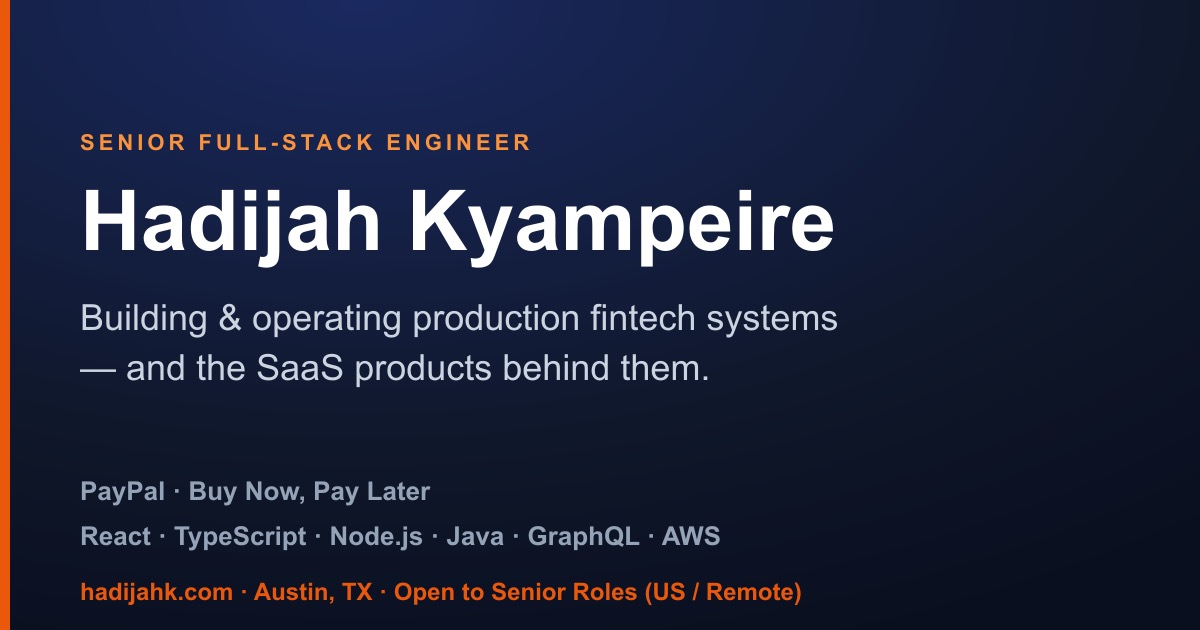
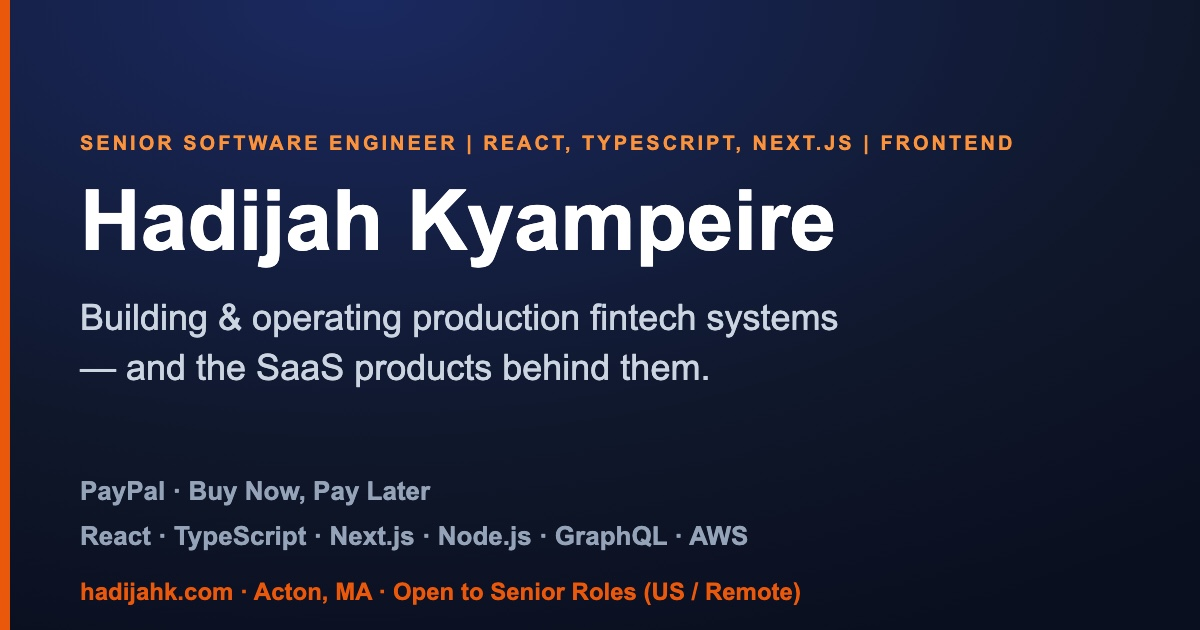
Match site to resume: headline, Skye/OpenMRS titles and dates, master's dates, OG image

diff --git a/index.html b/index.html
@@ -7,9 +7,9 @@
     <meta name="viewport" content="width=device-width, initial-scale=1.0" />
 
     <!-- Primary SEO -->
-    <title>Hadijah Kyampeire — Senior Full-Stack Engineer (React, TS, Node) · ex-PayPal BNPL</title>
-    <meta name="description" content="Hadijah Kyampeire — Senior full-stack engineer (8+ yrs) across FinTech, HealthTech, TravelTech, and EdTech. Most recently consumer fintech at PayPal Buy Now Pay Later; previously Sigma360 (risk intelligence), OpenMRS (healthcare). Open to senior roles — work-authorized in the US (on-site, hybrid, or remote); open to Canada with sponsorship." />
-    <meta name="keywords" content="Hadijah Kyampeire, Hadijah Kyampeire portfolio, senior software engineer, full-stack engineer, react developer, typescript, node.js, paypal engineer, fintech engineer, openmrs contributor, US software engineer roles, Canada software engineer roles, remote engineer" />
+    <title>Hadijah Kyampeire — Senior Software Engineer | React, TypeScript, Next.js | Frontend</title>
+    <meta name="description" content="Hadijah Kyampeire — Senior software engineer (8+ yrs; React, TypeScript, Next.js) across FinTech, HealthTech, TravelTech, and EdTech. Most recently consumer fintech at PayPal Buy Now Pay Later; previously Sigma360 (risk intelligence), OpenMRS (healthcare). Open to senior roles — work-authorized in the US (on-site, hybrid, or remote); open to Canada with sponsorship." />
+    <meta name="keywords" content="Hadijah Kyampeire, Hadijah Kyampeire portfolio, senior software engineer, frontend engineer, react developer, typescript, next.js, node.js, paypal engineer, fintech engineer, openmrs contributor, US software engineer roles, Canada software engineer roles, remote engineer" />
     <meta name="author" content="Hadijah Kyampeire" />
     <meta name="robots" content="index, follow, max-image-preview:large" />
     <link rel="canonical" href="https://www.hadijahk.com/" />
@@ -17,8 +17,8 @@
     <!-- Open Graph / Facebook -->
     <meta property="og:type" content="profile" />
     <meta property="og:url" content="https://www.hadijahk.com/" />
-    <meta property="og:title" content="Hadijah Kyampeire — Senior Full-Stack Engineer (React, TS, Node) · ex-PayPal BNPL" />
-    <meta property="og:description" content="Senior full-stack engineer (8+ yrs) across FinTech, HealthTech, TravelTech, EdTech. Most recently PayPal BNPL; previously Sigma360, OpenMRS. US work-authorized; open to Canada with sponsorship." />
+    <meta property="og:title" content="Hadijah Kyampeire — Senior Software Engineer | React, TypeScript, Next.js | Frontend" />
+    <meta property="og:description" content="Senior software engineer (8+ yrs; React, TypeScript, Next.js) across FinTech, HealthTech, TravelTech, EdTech. Most recently PayPal BNPL; previously Sigma360, OpenMRS. US work-authorized; open to Canada with sponsorship." />
     <meta property="og:image" content="https://www.hadijahk.com/og-image.jpg" />
     <meta property="og:site_name" content="Hadijah Kyampeire" />
     <meta property="profile:first_name" content="Hadijah" />
@@ -27,8 +27,8 @@
     <!-- Twitter -->
     <meta property="twitter:card" content="summary_large_image" />
     <meta property="twitter:url" content="https://www.hadijahk.com/" />
-    <meta property="twitter:title" content="Hadijah Kyampeire — Senior Full-Stack Engineer (React, TS, Node) · ex-PayPal BNPL" />
-    <meta property="twitter:description" content="Senior full-stack engineer (8+ yrs) across FinTech, HealthTech, TravelTech, EdTech. Most recently PayPal BNPL; previously Sigma360, OpenMRS. US work-authorized; open to Canada with sponsorship." />
+    <meta property="twitter:title" content="Hadijah Kyampeire — Senior Software Engineer | React, TypeScript, Next.js | Frontend" />
+    <meta property="twitter:description" content="Senior software engineer (8+ yrs; React, TypeScript, Next.js) across FinTech, HealthTech, TravelTech, EdTech. Most recently PayPal BNPL; previously Sigma360, OpenMRS. US work-authorized; open to Canada with sponsorship." />
     <meta property="twitter:image" content="https://www.hadijahk.com/og-image.jpg" />
     <meta property="twitter:creator" content="@KyampeireH" />
     <meta property="twitter:site" content="@KyampeireH" />
@@ -43,7 +43,7 @@
       {
         "@context": "https://schema.org",
         "@type": "WebSite",
-        "name": "Hadijah Kyampeire — Senior Full-Stack Engineer",
+        "name": "Hadijah Kyampeire — Senior Software Engineer",
         "alternateName": ["Hadijah Kyampeire", "Hadijah", "Kyampeire"],
         "url": "https://www.hadijahk.com/",
         "inLanguage": "en-US",
@@ -62,14 +62,14 @@
         "name": "Hadijah Kyampeire",
         "givenName": "Hadijah",
         "familyName": "Kyampeire",
-        "jobTitle": "Senior Full-Stack Software Engineer",
-        "description": "Senior full-stack engineer (8+ years) across FinTech, HealthTech, TravelTech, and EdTech. Most recently consumer fintech at PayPal Buy Now Pay Later; previously Sigma360 (risk intelligence), OpenMRS (healthcare). Work-authorized in the US (on-site, hybrid, or remote); open to Canada with sponsorship.",
+        "jobTitle": "Senior Software Engineer",
+        "description": "Senior software engineer (8+ years; React, TypeScript, Next.js) across FinTech, HealthTech, TravelTech, and EdTech. Most recently consumer fintech at PayPal Buy Now Pay Later; previously Sigma360 (risk intelligence), OpenMRS (healthcare). Work-authorized in the US (on-site, hybrid, or remote); open to Canada with sponsorship.",
         "url": "https://www.hadijahk.com/",
         "image": "https://www.hadijahk.com/og-image.jpg",
         "email": "mailto:hadijahkyampeire@gmail.com",
         "hasOccupation": {
           "@type": "Occupation",
-          "name": "Full Stack Software Engineer",
+          "name": "Senior Software Engineer",
           "occupationLocation": {
             "@type": "City",
             "name": "Acton, MA"
@@ -77,7 +77,7 @@
         },
         "seeks": {
           "@type": "Demand",
-          "name": "Senior full-stack software engineering roles"
+          "name": "Senior software engineering roles"
         },
         "affiliation": [
           { "@type": "Organization", "name": "PayPal", "url": "https://www.paypal.com/" },
@@ -127,21 +127,21 @@
     <!-- SEO fallback content (rendered when JS is disabled or crawler hasn't executed JS yet) -->
     <noscript>
       <header>
-        <h1>Hadijah Kyampeire — Senior Full-Stack Engineer</h1>
+        <h1>Hadijah Kyampeire — Senior Software Engineer | React, TypeScript, Next.js | Frontend</h1>
         <p>
-          Hadijah Kyampeire is a Senior Full-Stack Software Engineer with 8+ years of experience
+          Hadijah Kyampeire is a Senior Software Engineer with 8+ years of experience
           designing and building production-scale web applications for regulated industries.
           Most recently she built on PayPal's Buy Now, Pay Later (BNPL) platform in Austin, Texas,
           working across the United States, United Kingdom, European Union, Australia, and Canada
           markets using React, TypeScript, Node.js, and GraphQL. She is currently open to senior
-          full-stack engineering roles.
+          software engineering roles.
         </p>
         <h2>Experience</h2>
         <ul>
           <li><strong>PayPal · Buy Now, Pay Later</strong> — Full Stack Software Engineer (Contract via Insight Global), Austin, TX, October 2025 – July 2026</li>
-          <li><strong>Skye</strong> — Senior Software Engineer (Contract), New York, NY, June 2024 – October 2024</li>
+          <li><strong>Skye</strong> — Senior Software Developer, New York, NY, May 2024 – October 2024</li>
           <li><strong>Sigma360</strong> (via Andela) — Senior Software Engineer (promoted from Software Engineer), New York, NY, October 2018 – April 2024</li>
-          <li><strong>OpenMRS (Open Source)</strong> — Frontend Software Engineer / Development Fellow / /dev/3 Contributor, November 2020 – October 2024</li>
+          <li><strong>OpenMRS (Open Source)</strong> — Senior Software Engineer &amp; Open Source Contributor / Development Fellow / /dev/3 Contributor, November 2020 – August 2023</li>
           <li><strong>Andela Uganda</strong> — Software Engineer, Kampala, Uganda, December 2017 – September 2018</li>
         </ul>
         <h2>Community &amp; Open Source</h2>
@@ -153,7 +153,7 @@
         </ul>
         <h2>Education</h2>
         <ul>
-          <li>Master of Science in Computer Science — Maharishi International University (completing September 2026)</li>
+          <li>Master of Science in Computer Science — Maharishi International University (November 2024 – December 2026)</li>
           <li>Bachelor of Computer Engineering, First Class Honors — Busitema University, Uganda</li>
         </ul>
         <h2>Links</h2>

diff --git a/src/services/aiService.js b/src/services/aiService.js
@@ -18,9 +18,9 @@ const PORTFOLIO_CONTEXT = `
 You are an AI assistant for Hadijah Kyampeire's portfolio.
 
 - Name: Hadijah Kyampeire
-- Current Status: Open to senior full-stack engineering roles. Work-authorized in the US (on-site, hybrid, or remote); open to Canada with sponsorship. Also finishing a Master of Science in Computer Science at Maharishi International University (completing September 2026).
+- Current Status: Open to senior software engineering roles (React, TypeScript, Next.js; frontend-focused). Work-authorized in the US (on-site, hybrid, or remote); open to Canada with sponsorship. Also finishing a Master of Science in Computer Science at Maharishi International University (November 2024 - December 2026).
 - Most Recent Role: Full Stack Software Engineer, Buy Now Pay Later at PayPal, Austin TX (October 2025 - July 2026)
-- Previous Roles: Senior Software Engineer at Skye, Frontend Software Engineer / Development Fellow at OpenMRS (incl. the METS Program engagement), Senior Software Engineer at Sigma360 via Andela, Software Engineer at Andela Uganda
+- Previous Roles: Senior Software Developer at Skye (May 2024 - October 2024), Senior Software Engineer & Open Source Contributor / Development Fellow at OpenMRS (November 2020 - August 2023) (incl. the METS Program engagement), Senior Software Engineer at Sigma360 via Andela, Software Engineer at Andela Uganda
 - Also: Lead engineer on two live travel-booking platforms built for a client, Zifah Voyages and MixedTrips
 - Her own product: 'Litter Stars', a kids' learning app for ages 3-12 (React Native/Expo, TypeScript, serverless AWS) that she founded and builds solo — parent accounts with multiple child profiles, age-banded curriculum with subscription tiers, per-lesson progress, illustrated story reader with comprehension questions
 - Experience: 8+ years across FinTech, HealthTech, TravelTech, and EdTech
@@ -112,7 +112,7 @@ const generateFallbackResponse = (userMessage) => {
     lowerMessage.includes('hire') ||
     lowerMessage.includes('opportunity')
   ) {
-    return `She's open to senior full-stack engineering roles right now. Her most recent role was at PayPal on Buy Now, Pay Later, which wrapped up in July 2026. She's work-authorized in the US (on-site, hybrid, or remote all welcome) and open to Canada for teams that can sponsor relocation. She's also finishing a Master of Science in Computer Science at Maharishi International University (completing September 2026). Reach out at hadijahkyampeire@gmail.com to discuss opportunities!`;
+    return `She's open to senior software engineering roles right now, with a frontend focus on React, TypeScript, and Next.js. Her most recent role was at PayPal on Buy Now, Pay Later, which wrapped up in July 2026. She's work-authorized in the US (on-site, hybrid, or remote all welcome) and open to Canada for teams that can sponsor relocation. She's also finishing a Master of Science in Computer Science at Maharishi International University (finishing December 2026). Reach out at hadijahkyampeire@gmail.com to discuss opportunities!`;
   }
   
   // Skills and technologies
@@ -137,7 +137,7 @@ const generateFallbackResponse = (userMessage) => {
     lowerMessage.includes('background') ||
     lowerMessage.includes('role')
   ) {
-    return `She has 8+ years of experience across FinTech, HealthTech, TravelTech, and EdTech. Most recently she was a Full Stack Software Engineer at PayPal in Austin (Oct 2025 - Jul 2026), building onboarding and credit-decisioning for Buy Now, Pay Later across multiple markets. Before that: Senior Software Engineer at Skye, ~4 years contributing to OpenMRS (including Uganda's METS Program), and 5+ years at Sigma360 via Andela building financial-crime and risk-intelligence software used by Stripe and other institutions. She's also the lead engineer on two live travel-booking platforms built for a client, Zifah Voyages and MixedTrips, and the founder of her own kids' learning app.`;
+    return `She has 8+ years of experience across FinTech, HealthTech, TravelTech, and EdTech. Most recently she was a Full Stack Software Engineer at PayPal in Austin (Oct 2025 - Jul 2026), building onboarding and credit-decisioning for Buy Now, Pay Later across multiple markets. Before that: Senior Software Developer at Skye, nearly three years contributing to OpenMRS (including Uganda's METS Program), and 5+ years at Sigma360 via Andela building financial-crime and risk-intelligence software used by Stripe and other institutions. She's also the lead engineer on two live travel-booking platforms built for a client, Zifah Voyages and MixedTrips, and the founder of her own kids' learning app.`;
   }
   
   // Projects
@@ -170,7 +170,7 @@ const generateFallbackResponse = (userMessage) => {
     lowerMessage.includes('university') ||
     lowerMessage.includes('study')
   ) {
-    return `She's pursuing a Master of Science in Computer Science at Maharishi International University (completing September 2026). She also holds a Bachelor of Computer Engineering with First Class Honors from Busitema University in Uganda (2013-2017). Her studies focused on algorithms, web application architecture, enterprise architecture, and cloud computing.`;
+    return `She's pursuing a Master of Science in Computer Science at Maharishi International University (November 2024 - December 2026). She also holds a Bachelor of Computer Engineering with First Class Honors from Busitema University in Uganda (2013-2017). Her studies focused on algorithms, web application architecture, enterprise architecture, and cloud computing.`;
   }
   
   // Location and remote work
@@ -222,7 +222,7 @@ const generateFallbackResponse = (userMessage) => {
     lowerMessage.includes('medical') ||
     lowerMessage.includes('openmrs')
   ) {
-    return `She contributed to OpenMRS for around four years - the open-source EMR platform behind national health systems in 50+ countries, including UgandaEMR (1,700+ facilities) and PEPFAR HIV programs. She architected a JSON-schema-driven UI workflow framework on the OpenMRS 3 micro-frontends platform that cut clinical-module code duplication by ~90%, and built a drag-and-drop clinical form builder that cut form creation time by ~40%. She's recognized as a /dev/3 senior contributor and was named a Development Fellow. The work continued through a 2024 engagement with Uganda's METS Program at Makerere University School of Public Health.`;
+    return `She contributed to OpenMRS for nearly three years (November 2020 - August 2023) - the open-source EMR platform behind national health systems in 50+ countries, including UgandaEMR (1,700+ facilities) and PEPFAR HIV programs. She architected a JSON-schema-driven UI workflow framework on the OpenMRS 3 micro-frontends platform that cut clinical-module code duplication by ~90%, and built a drag-and-drop clinical form builder that cut form creation time by ~40%. She's recognized as a /dev/3 senior contributor and was named a Development Fellow. The work included Uganda's METS Program at Makerere University School of Public Health, where she enhanced UgandaEMR stock management.`;
   }
   
   // Sigma360 specific
@@ -242,7 +242,7 @@ const generateFallbackResponse = (userMessage) => {
     lowerMessage.includes('compensation') ||
     lowerMessage.includes('cost')
   ) {
-    return `She's open to discussing compensation based on the role and scope. With 8+ years of full-stack experience across regulated fintech, healthcare, and risk platforms, she's targeting senior-level compensation. Reach out at hadijahkyampeire@gmail.com to talk specifics.`;
+    return `She's open to discussing compensation based on the role and scope. With 8+ years of experience across regulated fintech, healthcare, and risk platforms, she's targeting senior-level compensation. Reach out at hadijahkyampeire@gmail.com to talk specifics.`;
   }
   
   // Career goals and aspirations
@@ -253,7 +253,7 @@ const generateFallbackResponse = (userMessage) => {
     lowerMessage.includes('plan') ||
     lowerMessage.includes('next')
   ) {
-    return `She's looking for senior full-stack roles where she can own features end to end, ideally in fintech, healthcare, or another domain where correctness matters. She wants to keep mentoring engineers, keep contributing to open source, and keep building with AI-assisted tooling as part of the workflow rather than as a novelty.`;
+    return `She's looking for senior software engineering roles where she can own features end to end, ideally in fintech, healthcare, or another domain where correctness matters. She wants to keep mentoring engineers, keep contributing to open source, and keep building with AI-assisted tooling as part of the workflow rather than as a novelty.`;
   }
   
   // Greetings

diff --git a/src/pages/Home.jsx b/src/pages/Home.jsx
@@ -129,9 +129,9 @@ function Home() {
   {
     company: "Skye",
     companyContext: "Executive coaching platform serving leaders from Google, Condé Nast, and Lyft. Acquired by Sounding Board, Nov 2024.",
-    role: "Senior Software Engineer (Contract)",
+    role: "Senior Software Developer",
     location: "New York, NY (Remote)",
-    duration: "June 2024 – October 2024",
+    duration: "May 2024 – October 2024",
     bullets: [
       "Built session scheduling and coaching-review analytics (React, Node.js, MUI Data Grid, Recharts) used by coaches and their clients.",
       "Raised automated test coverage to ~90% with React Testing Library, reducing regressions and improving release confidence.",
@@ -165,16 +165,16 @@ function Home() {
   {
     company: "OpenMRS",
     companyContext: "Open-source EMR powering national health systems in 50+ countries, including UgandaEMR (1,700+ facilities) and PEPFAR HIV programs.",
-    role: "Frontend Software Engineer · Open Source Contributor · OpenMRS HIV Reference Implementation (OHRI)",
+    role: "Senior Software Engineer · Open Source Contributor · OpenMRS HIV Reference Implementation (OHRI)",
     location: "Carmel, Indiana, USA (Remote · Concurrent with paid roles)",
-    duration: "November 2020 – October 2024 · ~4 yrs",
+    duration: "November 2020 – August 2023 · ~3 yrs",
     bullets: [
       "Multi-year contributor to OHRI, the OpenMRS 3 package supporting HIV and TB clinical workflows in national health programs.",
       "Architected a JSON-schema-driven UI workflow framework on O3 micro-frontends, cutting module code duplication by ~90%.",
       "Designed a drag-and-drop clinical form builder used by clinicians and public-health analysts; reduced form creation time by ~40%.",
       "Shipped healthcare modules and reusable UI components (React, TypeScript, Spring Boot) across OpenMRS 3 implementations.",
       "Added multilingual support and Cypress E2E coverage, cutting manual QA effort.",
-      "Continued through a 2024 engagement with Uganda's METS Program (Makerere University SPH)."
+      "Enhanced UgandaEMR stock management with Uganda's METS Program (Makerere University SPH), reducing stock-related issues by ~50%."
     ],
     technologies: ["React", "TypeScript", "OpenMRS 3 (O3)", "OHRI", "Java", "Spring Boot", "Formik", "Micro-Frontends", "Carbon Design System", "SWR", "Cypress"]
   },
@@ -294,7 +294,7 @@ function Home() {
     {
       degree: "Master of Science in Computer Science",
       school: "Maharishi International University, Fairfield, Iowa, USA",
-      year: "Completing September 2026",
+      year: "November 2024 – December 2026",
       description: "Key Courses: Algorithms, Web Application Architecture, Enterprise Architecture, Cloud Computing"
     },
     {
@@ -622,13 +622,18 @@ function Home() {
                 fontWeight: 700,
                 fontSize: { xs: '1rem', md: '1.05rem' },
                 letterSpacing: 3,
+                lineHeight: 1.6,
                 textTransform: 'uppercase',
                 color: accentText,
                 mb: 2,
                 animation: 'slideUp 0.6s ease-out',
               }}
             >
-              Hadijah Kyampeire — Senior Full-Stack Engineer
+              Hadijah Kyampeire — Senior Software Engineer
+              {/* Second line of the resume heading; broken here so the pipe never dangles at a wrap */}
+              <Box component="span" sx={{ display: 'block' }}>
+                React, TypeScript, Next.js | Frontend
+              </Box>
             </Typography>
             <Typography
               variant="h2"
@@ -977,7 +982,7 @@ function Home() {
                 </Typography>
                 <Stack divider={<Box sx={{ height: '1px', bgcolor: theme.palette.divider }} />} spacing={1.5}>
                   {[
-                    { label: 'Experience', value: '8+ years, full stack' },
+                    { label: 'Experience', value: '8+ years · React, TypeScript, Next.js' },
                     { label: 'Domains', value: 'FinTech · HealthTech · TravelTech · EdTech' },
                     { label: 'Most recently', value: 'PayPal — Buy Now, Pay Later, Austin TX' },
                     { label: 'Building', value: 'Kids learning app (my own) · two live travel platforms (client)' },
@@ -1659,7 +1664,7 @@ function Home() {
                   mb: 3,
                 }}
               >
-                Open to senior full-stack roles. Work-authorized in the US (on-site, hybrid, or remote), and open to Canada for teams that can sponsor. WhatsApp or text is fastest.
+                Open to senior software engineering roles. Work-authorized in the US (on-site, hybrid, or remote), and open to Canada for teams that can sponsor. WhatsApp or text is fastest.
               </Typography>
               <Box sx={{ display: 'flex', flexDirection: 'column', gap: 1.5, mb: 4 }}>
                 <Box sx={{ display: 'flex', alignItems: 'center', gap: 2 }}>
